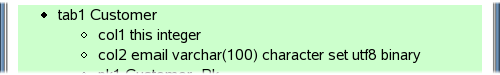
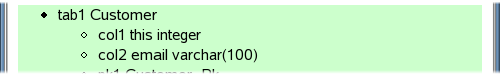
remove character set utf8 binary from example, was just a distraction
git-svn-id: https://svn.exedio.com/cope/trunk/persistence@7825 e7d4fc99-c606-0410-b9bf-843393a9eab7

Changed region(s): [[0.51, 0.64, 0.84, 0.8267]]

diff --git a/screenshot/schema/schema2.html b/screenshot/schema/schema2.html
@@ -65,7 +65,7 @@ supports right outer joins: <i>yes</i>
 			</li>
 			<li class="ok">
 				<small>col2</small> email
-				<small>varchar(100) character set utf8 binary</small>
+				<small>varchar(100)</small>
 			</li>
 			<li class="ok">
 				<small>pk1</small> Customer_Pk

diff --git a/screenshot/schema/schema4.html b/screenshot/schema/schema4.html
@@ -65,7 +65,7 @@ supports right outer joins: <i>yes</i>
 			</li>
 			<li class="ok">
 				<small>col2</small> email
-				<small>varchar(100) character set utf8 binary</small>
+				<small>varchar(100)</small>
 			</li>
 			<li class="error">
 				<small>col3</small> blocked

diff --git a/screenshot/schema/schema5.html b/screenshot/schema/schema5.html
@@ -71,7 +71,7 @@ supports right outer joins: <i>yes</i>
 			</li>
 			<li class="ok">
 				<small>col2</small> email
-				<small>varchar(100) character set utf8 binary</small>
+				<small>varchar(100)</small>
 			</li>
 			<li class="ok">
 				<small>col3</small> blocked
